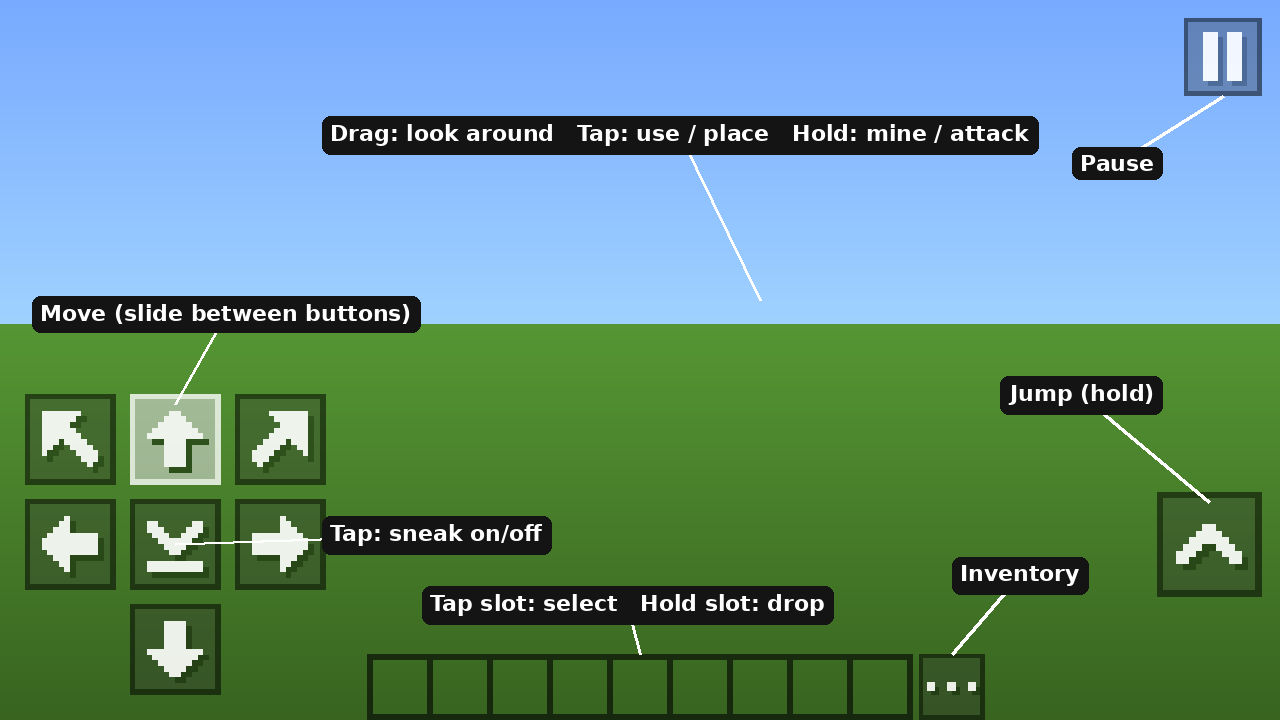
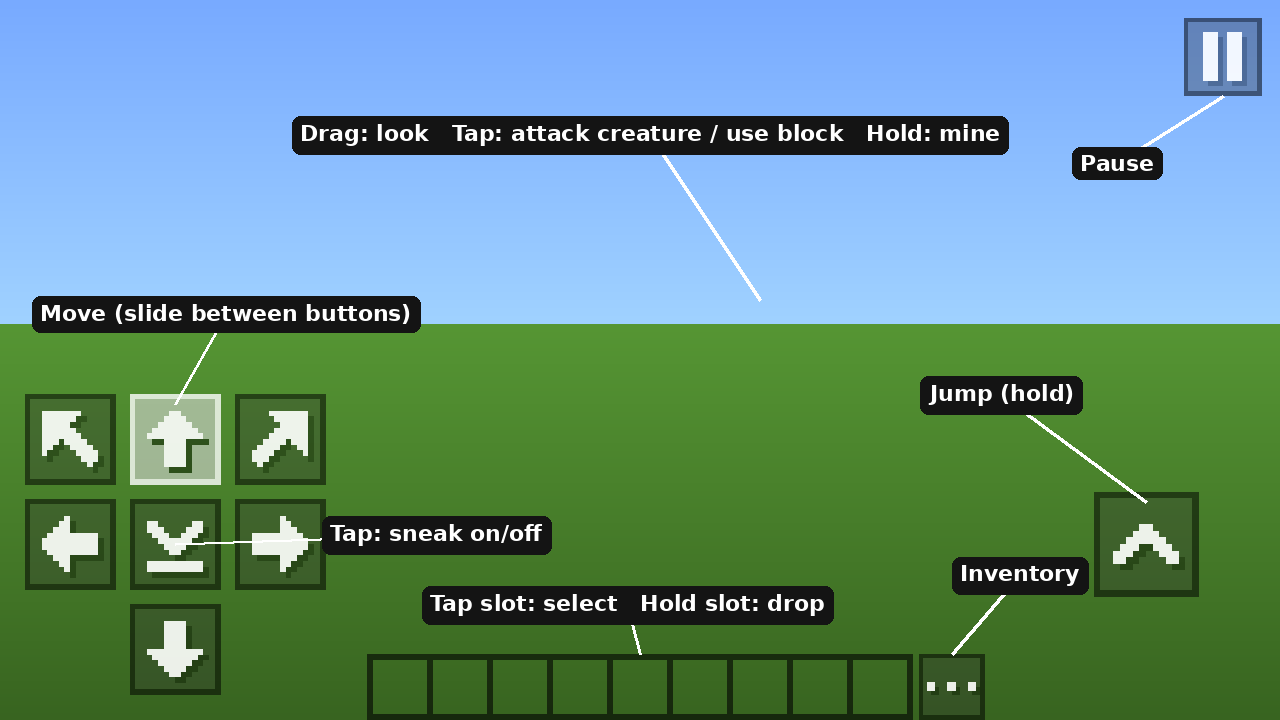
Tap to attack, jump button moved in, first music track sooner
- Quick tap in the world attacks when the crosshair is on a creature,
  otherwise uses/places as before (no more holding to hit mobs)
- Jump button moved a little left of the screen edge
- First background track of each session starts within 30-90 s instead
  of the original random 0-10 min wait
- Controls diagram and docs updated

Claude-Session: https://claude.ai/code/session_019tTWzNWd7nnDdZqeg2a1Pa

diff --git a/docs/index.html b/docs/index.html
@@ -91,7 +91,7 @@
     <span data-zh>在 Android 上原生執行 Minecraft Alpha</span>
   </h1>
   <p class="lead">
-    <span data-en>mcport turns your own copy of the Alpha 1.1.2_01 desktop jar into an Android APK — no launcher, no Java VM on the phone. Pocket Edition style touch controls, the game's original screens tuned for fingers.</span>
+    <span data-en>mcport turns your own copy of the Alpha 1.1.2_01 desktop jar into an Android APK — no launcher, no Java VM on the phone. Pocket Edition style touch controls, sound, the game's original screens tuned for fingers.</span>
     <span data-zh>mcport 把你自己的 Alpha 1.1.2_01 電腦版 jar 打包成 Android APK，不需要啟動器，手機上也不用跑 Java 虛擬機。觸控仿 Pocket Edition，介面保留原版並針對手指操作優化。</span>
   </p>
   <div class="cta">
@@ -131,7 +131,7 @@
     </div>
     <div class="card">
       <h3><span data-en>PE-style controls</span><span data-zh>PE 風格操作</span></h3>
-      <p><span data-en>D-pad, jump, sneak toggle, tap to use, hold to mine, tap the hotbar to switch, hold it to drop.</span><span data-zh>十字鍵、跳躍、蹲下切換、點一下使用、按住挖掘、點熱鍵列切換、按住丟棄。</span></p>
+      <p><span data-en>D-pad, jump, sneak toggle, tap a creature to attack it, tap a block to use it, hold to mine, tap the hotbar to switch, hold it to drop.</span><span data-zh>十字鍵、跳躍、蹲下切換、點生物攻擊、點方塊使用、按住挖掘、點熱鍵列切換、按住丟棄。</span></p>
     </div>
     <div class="card">
       <h3><span data-en>Original screens, finger-friendly</span><span data-zh>原版介面，好按</span></h3>

diff --git a/desktop/src/mcdesk/TestMain.java b/desktop/src/mcdesk/TestMain.java
@@ -14,7 +14,7 @@ public class TestMain {
         System.setProperty("user.home", args.length > 0 ? args[0] : "/tmp/mchome");
         new java.io.File(System.getProperty("user.home")).mkdirs();
         mcshim.Hooks.setFrameListener(new mcshim.Hooks.FrameListener() {   // same per-frame hook as the Android app
-            public void onFrame() { mcshim.ui.GuiTouch.dedupeButtons(); }
+            public void onFrame() { mcshim.ui.GuiTouch.dedupeButtons(); mcshim.ui.GuiTouch.nudgeFirstMusic(); }
         });
         Class.forName("net.minecraft.client.Minecraft").getMethod("main", String[].class)
                 .invoke(null, (Object) new String[] {"Tester", "-"});
@@ -36,7 +36,7 @@ public class TestMain {
                 case "look": Mouse.injectDelta(Float.parseFloat(t[1]), Float.parseFloat(t[2])); break;
                 case "mdown": Mouse.injectButton(Integer.parseInt(t[1]), true); break;
                 case "mup": Mouse.injectButton(Integer.parseInt(t[1]), false); break;
-                case "give": case "craft": case "dump": case "counts": case "screen": case "kind": case "tapgui": case "closebtn": case "music": case "inv": case "tap": case "equip": case "unequip": game(t); break;
+                case "give": case "craft": case "dump": case "counts": case "screen": case "kind": case "tapgui": case "closebtn": case "music": case "aim": case "pig": case "pigstat": case "taplook": case "inv": case "tap": case "equip": case "unequip": game(t); break;
             }
             if (p.crashText != null) break;
         }
@@ -60,6 +60,34 @@ public class TestMain {
                         }
                     } else if (t[0].equals("counts")) {
                         System.out.println("counts " + mcshim.craft.Crafting.counts());
+                    } else if (t[0].equals("pig")) {
+                        // spawn a pig 2.5 blocks in front of the player and look at it
+                        Object mc = mcshim.Hooks.minecraft;
+                        Class<?> mcC = mc.getClass().getSuperclass();
+                        Object world = field(mcC, "e").get(mc), player = field(mcC, "g").get(mc);
+                        Class<?> ent = Class.forName("kh");
+                        double px = field(ent, "ak").getDouble(player), py = field(ent, "al").getDouble(player), pz = field(ent, "am").getDouble(player);
+                        float yaw = field(ent, "aq").getFloat(player);
+                        double dx = -Math.sin(Math.toRadians(yaw)), dz = Math.cos(Math.toRadians(yaw));
+                        pig = Class.forName("mv").getConstructor(Class.forName("cn")).newInstance(world);
+                        ent.getMethod("c", double.class, double.class, double.class, float.class, float.class)
+                           .invoke(pig, px + dx * 2.5, py - 1.62, pz + dz * 2.5, yaw, 0f);
+                        System.out.println("spawned pig: " + world.getClass().getMethod("a", ent).invoke(world, pig));
+                        field(ent, "ar").setFloat(player, 22f);
+                        field(ent, "aq").setFloat(player, yaw);
+                    } else if (t[0].equals("pigstat")) {
+                        StringBuilder b = new StringBuilder("pig ints:");
+                        for (Class<?> c = pig.getClass(); c != Object.class; c = c.getSuperclass())
+                            for (java.lang.reflect.Field f : c.getDeclaredFields())
+                                if (f.getType() == int.class && !java.lang.reflect.Modifier.isStatic(f.getModifiers())) { f.setAccessible(true); b.append(' ').append(c.getName()).append('.').append(f.getName()).append('=').append(f.getInt(pig)); }
+                        System.out.println(b);
+                    } else if (t[0].equals("taplook")) {
+                        // same decision the phone makes on a quick tap in the world
+                        int btn = mcshim.ui.GuiTouch.aimingAtEntity() ? 0 : 1;
+                        Mouse.injectButton(btn, true); Mouse.injectButton(btn, false);
+                        System.out.println("taplook -> " + (btn == 0 ? "attack" : "use/place"));
+                    } else if (t[0].equals("aim")) {
+                        System.out.println("aim entity=" + mcshim.ui.GuiTouch.aimingAtEntity());
                     } else if (t[0].equals("music")) {
                         // start background music now instead of after the game's long random delay
                         java.lang.reflect.Field fa = mcshim.Hooks.minecraft.getClass().getSuperclass().getDeclaredField("A");
@@ -106,6 +134,14 @@ public class TestMain {
             }
         });
         synchronized (done) { long end = System.currentTimeMillis() + 30000; while (!fin[0] && System.currentTimeMillis() < end) done.wait(500); }
+    }
+
+    static Object pig;
+
+    static java.lang.reflect.Field field(Class<?> c, String n) throws Exception {
+        java.lang.reflect.Field f = c.getDeclaredField(n);
+        f.setAccessible(true);
+        return f;
     }
 
     /** Click at window pixel (x from left, y from top). */

diff --git a/shim/src/mcshim/ui/GuiTouch.java b/shim/src/mcshim/ui/GuiTouch.java
@@ -18,7 +18,7 @@ public final class GuiTouch {
     public static final int NONE = 0, OTHER = 1, TEXT = 2, CONTAINER = 3;
 
     private static boolean tried, ok;
-    private static Field fWorld;
+    private static Field fWorld, fAim, fAimEntity;
     private static Class<?> cDeath, cControls;
     private static Field fScreen, fPlayer, fInventory, fCursor, fList, fW, fH, fXSize, fYSize, fSlots;
     private static Field sInv, sX, sY, bId;
@@ -51,6 +51,8 @@ public final class GuiTouch {
             cOptions = Class.forName("ay", false, cl);
             fScreen = f(mc, "p");
             fWorld = f(mc, "e");
+            fAim = f(mc, "x");                                   // objectMouseOver
+            fAimEntity = f(Class.forName("mf", false, cl), "g");  // ...its entityHit
             cDeath = Class.forName("au", false, cl);
             cControls = Class.forName("lw", false, cl);
             fPlayer = f(mc, "g");
@@ -127,6 +129,42 @@ public final class GuiTouch {
             return new int[] {(int) (l * kx), (int) (t * ky), (int) ((l + size) * kx), (int) ((t + size) * ky)};
         } catch (Throwable e) {
             return null;
+        }
+    }
+
+    private static boolean musicNudged;
+
+    /**
+     * Alpha waits a random 0-10 minutes before the first music track. Once per
+     * run, as soon as a world is loaded, bring that down to 30-90 seconds;
+     * later tracks keep the game's own timing. Game thread, call every frame.
+     */
+    public static void nudgeFirstMusic() {
+        if (musicNudged || !init()) return;
+        try {
+            Object mc = Hooks.minecraft;
+            if (mc == null || fWorld.get(mc) == null) return;
+            Class<?> mcC = Class.forName("net.minecraft.client.Minecraft", false, GuiTouch.class.getClassLoader());
+            Object snd = f(mcC, "A").get(mc);
+            if (snd == null) return;
+            Field ticks = f(snd.getClass(), "i");
+            int t = ticks.getInt(snd);
+            int want = 600 + (int) (Math.random() * 1200); // 20 ticks per second
+            if (t > want) ticks.setInt(snd, want);
+            musicNudged = true;
+        } catch (Throwable e) {
+            musicNudged = true;
+        }
+    }
+
+    /** True when the crosshair is on a mob/animal/player (game thread). */
+    public static boolean aimingAtEntity() {
+        if (!init()) return false;
+        try {
+            Object aim = fAim.get(Hooks.minecraft);
+            return aim != null && fAimEntity.get(aim) != null;
+        } catch (Throwable t) {
+            return false;
         }
     }
 

diff --git a/android/src/mcport/TouchOverlay.java b/android/src/mcport/TouchOverlay.java
@@ -236,7 +236,9 @@ final class TouchOverlay extends View {
         float pb = Math.round(cell * 0.75f / s) * s;
         pauseR.set(w - margin - pb, margin, w - margin, margin + pb);
         // jump: bottom-right, level with the middle row of the D-pad
-        jumpR.set(w - margin - cell, padY + cell, w - margin, padY + cell * 2);
+        // a little in from the right edge so the thumb reaches it comfortably
+        float jx = w - margin - cell - Math.round(cell * 0.6f / s) * s;
+        jumpR.set(jx, padY + cell, jx + cell, padY + cell * 2);
         float hbW = 182 * s, hbH = 22 * s;
         float hx = (w - hbW) / 2 + hbW + 2 * s;
         invR.set(hx, h - hbH, hx + hbH, h);
@@ -476,8 +478,14 @@ final class TouchOverlay extends View {
                 if (q.mining) {
                     Mouse.injectButton(0, false);
                 } else if (!cancel && !q.moved && SystemClock.uptimeMillis() - q.t0 < LONG_PRESS_MS) {
-                    Mouse.injectButton(1, true);   // tap = use / place
-                    Mouse.injectButton(1, false);
+                    // tap: attack if the crosshair is on a creature, otherwise use / place
+                    Hooks.runOnGameThread(new Runnable() {
+                        public void run() {
+                            int b = GuiTouch.aimingAtEntity() ? 0 : 1;
+                            Mouse.injectButton(b, true);
+                            Mouse.injectButton(b, false);
+                        }
+                    });
                 }
                 break;
         }

diff --git a/android/src/mcport/MainActivity.java b/android/src/mcport/MainActivity.java
@@ -55,6 +55,7 @@ public class MainActivity extends Activity implements SurfaceHolder.Callback {
             String lastClose = "";
             public void onFrame() {
                 mcshim.ui.GuiTouch.dedupeButtons();
+                mcshim.ui.GuiTouch.nudgeFirstMusic();
                 final int[] close = mcshim.ui.GuiTouch.closeButton(overlay.getWidth(), overlay.getHeight());
                 String ck = close == null ? "" : close[0] + "," + close[1] + "," + close[2] + "," + close[3];
                 if (!ck.equals(lastClose)) {

diff --git a/README.md b/README.md
@@ -16,7 +16,7 @@ code is not changed.
 
 **Features**
 
-- Pocket Edition 0.12-style touch controls (D-pad, jump, sneak, tap to use, hold to mine)
+- Pocket Edition 0.12-style touch controls (D-pad, jump, sneak; tap a creature to attack, tap a block to use/place, hold to mine)
 - The game's original screens, tuned for fingers: tap on release, long-press = right click,
   tap a crafting cell while holding items to place one, snap-to-slot, no accidental drops
 - Sound: a software OpenAL mixer (3D position, distance, panning, pitch, streamed music) on Android's AudioTrack —
@@ -122,6 +122,9 @@ App 第一次開啟時會把音效複製到遊戲資料夾，畫面會顯示 `In
 
 設定裡的 Music、Sound 滑桿可以調音量；App 切到背景時聲音會自動暫停。
 
+**背景音樂：**放在 `music/`（例如 `calm1.ogg`、`calm2.ogg`、`calm3.ogg`）。原版要隨機等 0～10 分鐘才播第一首，
+手機上常常還沒聽到就關掉了，所以每次開遊戲的第一首改成 30～90 秒內開始，之後照原版的間隔。
+
 ### 存檔位置
 
 `Android/data/io.github.mcport.alpha/files/.minecraft/saves/`
@@ -158,7 +161,8 @@ App 第一次開啟時會把音效複製到遊戲資料夾，畫面會顯示 `In
 | `kind` | 印出目前畫面類型（0 無、1 一般、2 打字、3 背包類） |
 | `tapgui X Y [long]` | 模擬手機在背包類畫面點一下（加 long 為長按） |
 | `move X Y` | 移動滑鼠游標 |
-| `music` | 立刻開始播背景音樂（原版要等好幾分鐘） |
+| `music` | 立刻開始播背景音樂 |
+| `pig` / `aim` / `taplook` / `pigstat` | 在前方放一隻豬並瞄準／印出準心是否對著生物／模擬手機點一下／印出豬的數值 |
 
 測試世界存在 `build/mchome/`。
 
@@ -172,8 +176,8 @@ App 第一次開啟時會把音效複製到遊戲資料夾，畫面會顯示 `In
 
 - **十字鍵（左下）：**移動，手指可以在按鈕間滑動；往前走時會出現兩個斜向按鈕
 - **十字鍵中間：**蹲下，點一下切換開關
-- **右下角 ^：**跳躍，按住會連續跳
-- **畫面其他地方：**拖曳轉視角；點一下＝使用／放置；按住不動＝挖掘／攻擊（對準準心）
+- **右下角 ^：**跳躍，按住會連續跳（離右邊緣稍有距離，拇指比較好按）
+- **畫面其他地方：**拖曳轉視角；點一下＝準心對著生物就攻擊、否則使用／放置；按住不動＝挖掘（或連續攻擊）。都是對準畫面中央準心
 - **熱鍵列：**點一下選格子，按住約 0.5 秒丟出物品
 - **熱鍵列右邊「⋯」：**打開背包；**右上角 ‖：**暫停；**返回鍵：**Esc
 
